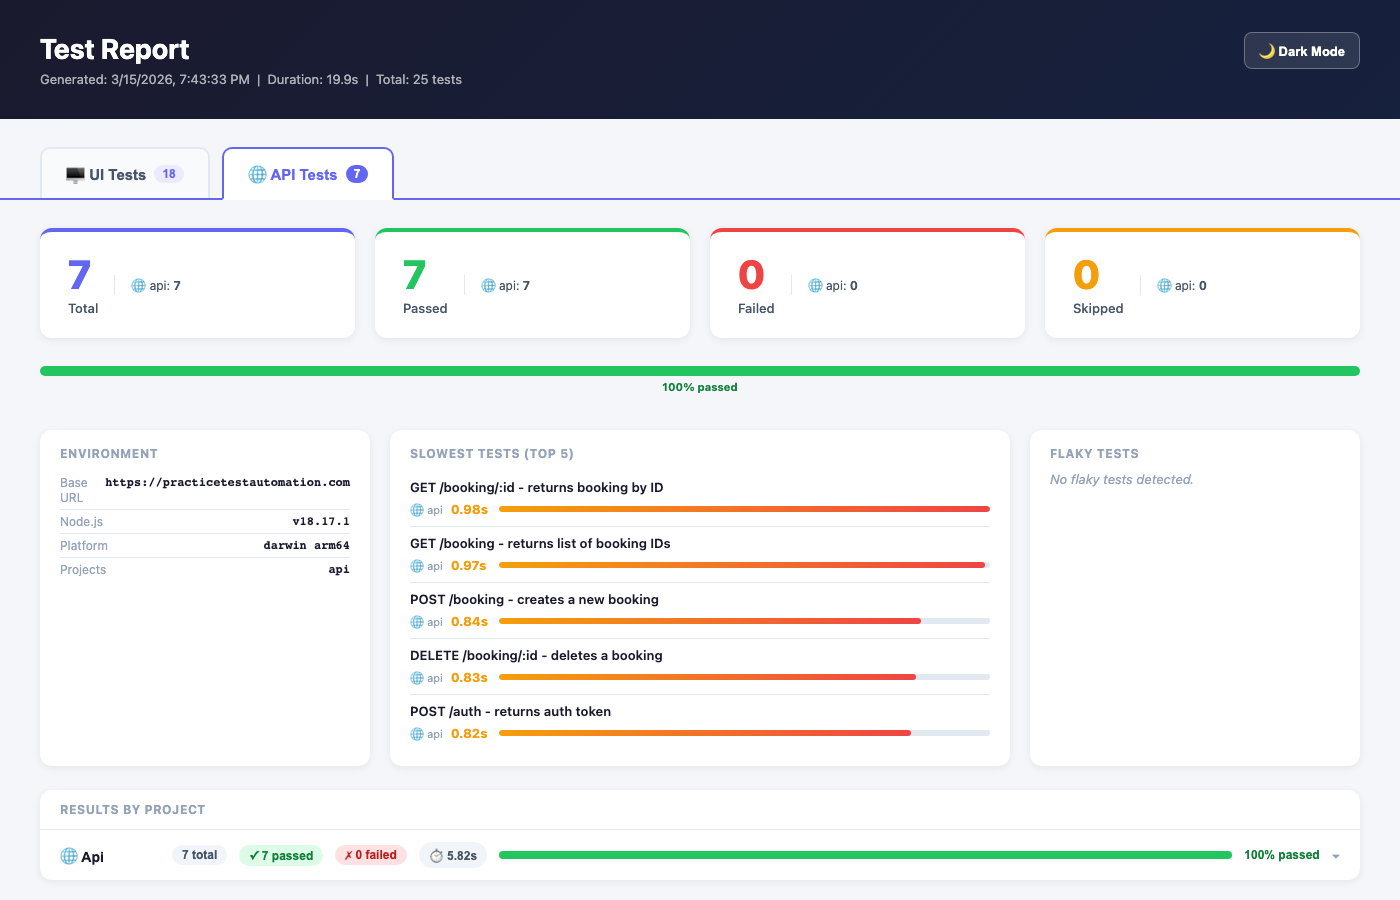
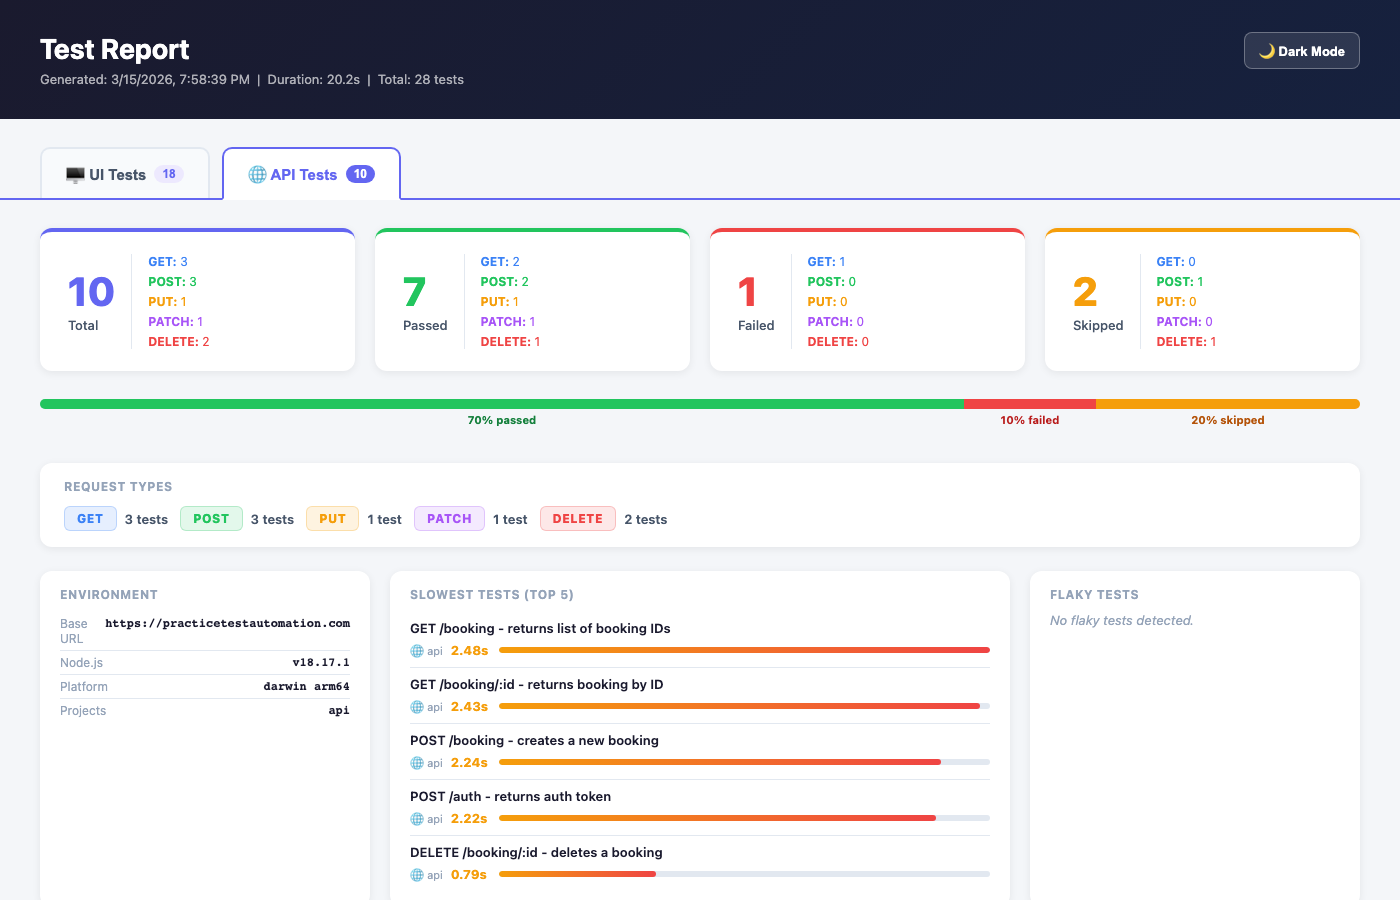
feat: add HTTP method breakdown in API report and update README
- API summary cards now show per-method counts (GET/POST/PUT/PATCH/DELETE)
- Add Request Types bar in API section
- Add intentional fail and skipped examples to API tests
- Update README with new report screenshots and feature list

diff --git a/src/reporter/customHtmlReporter.ts b/src/reporter/customHtmlReporter.ts
@@ -261,31 +261,48 @@ class CustomHtmlReporter implements Reporter {
       const sSlowest = [...sectionRecords].filter(r => r.status !== 'skipped').sort((a, b) => b.duration - a.duration).slice(0, 5);
       const sFlaky   = sectionRecords.filter(r => r.retry > 0 && r.status === 'passed');
 
+      const httpMethods = ['GET', 'POST', 'PUT', 'PATCH', 'DELETE', 'HEAD', 'OPTIONS'];
+      const methodColors: Record<string, string> = {
+        GET: '#3b82f6', POST: '#22c55e', PUT: '#f59e0b',
+        PATCH: '#a855f7', DELETE: '#ef4444', HEAD: '#64748b', OPTIONS: '#64748b',
+      };
+      const methodCounts = httpMethods.reduce((acc, m) => {
+        const count = sectionRecords.filter(r => new RegExp(`^${m}\\s`, 'i').test(r.title)).length;
+        if (count > 0) acc[m] = count;
+        return acc;
+      }, {} as Record<string, number>);
+      const hasMethodBreakdown = sectionId === 'api' && Object.keys(methodCounts).length > 0;
+
+      const cardBreakdown = (filter: (r: TestRecord) => boolean) => {
+        if (hasMethodBreakdown) {
+          return Object.entries(methodCounts).map(([m, total]) => {
+            const n = sectionRecords.filter(r => filter(r) && new RegExp(`^${m}\\s`, 'i').test(r.title)).length;
+            return `<span class="card-b-item" style="color:${methodColors[m]}"><strong>${m}:</strong> ${n}</span>`;
+          }).join('');
+        }
+        return sectionBrowsers.map(b => {
+          const n = sectionRecords.filter(r => r.browser === b && filter(r)).length;
+          return `<span class="card-b-item">${browserIcons[b] ?? '🌐'} ${escapeHtml(b)}: <strong>${n}</strong></span>`;
+        }).join('');
+      };
+
       const summaryCards = `
       <div class="summary">
         <div class="card total">
           <div class="card-left"><div class="count">${sTotal}</div><div class="label">Total</div></div>
-          <div class="card-browser-breakdown">
-            ${sectionBrowsers.map(b => { const n = sectionRecords.filter(r => r.browser === b).length; return `<span class="card-b-item">${browserIcons[b] ?? '🌐'} ${escapeHtml(b)}: <strong>${n}</strong></span>`; }).join('')}
-          </div>
+          <div class="card-browser-breakdown">${cardBreakdown(() => true)}</div>
         </div>
         <div class="card passed">
           <div class="card-left"><div class="count">${sPassed}</div><div class="label">Passed</div></div>
-          <div class="card-browser-breakdown">
-            ${sectionBrowsers.map(b => { const n = sectionRecords.filter(r => r.browser === b && r.status === 'passed').length; return `<span class="card-b-item">${browserIcons[b] ?? '🌐'} ${escapeHtml(b)}: <strong>${n}</strong></span>`; }).join('')}
-          </div>
+          <div class="card-browser-breakdown">${cardBreakdown(r => r.status === 'passed')}</div>
         </div>
         <div class="card failed">
           <div class="card-left"><div class="count">${sFailed}</div><div class="label">Failed</div></div>
-          <div class="card-browser-breakdown">
-            ${sectionBrowsers.map(b => { const n = sectionRecords.filter(r => r.browser === b && (r.status === 'failed' || r.status === 'timedOut')).length; return `<span class="card-b-item">${browserIcons[b] ?? '🌐'} ${escapeHtml(b)}: <strong>${n}</strong></span>`; }).join('')}
-          </div>
+          <div class="card-browser-breakdown">${cardBreakdown(r => r.status === 'failed' || r.status === 'timedOut')}</div>
         </div>
         <div class="card skipped">
           <div class="card-left"><div class="count">${sSkipped}</div><div class="label">Skipped</div></div>
-          <div class="card-browser-breakdown">
-            ${sectionBrowsers.map(b => { const n = sectionRecords.filter(r => r.browser === b && r.status === 'skipped').length; return `<span class="card-b-item">${browserIcons[b] ?? '🌐'} ${escapeHtml(b)}: <strong>${n}</strong></span>`; }).join('')}
-          </div>
+          <div class="card-browser-breakdown">${cardBreakdown(r => r.status === 'skipped')}</div>
         </div>
       </div>`;
 
@@ -411,10 +428,23 @@ class CustomHtmlReporter implements Reporter {
         ? `<div class="tabs">${tabButtons}</div>${panels}`
         : panels;
 
+      const methodBreakdown = hasMethodBreakdown ? `
+      <div class="method-breakdown">
+        <div class="method-breakdown-title">Request Types</div>
+        <div class="method-badges">
+          ${Object.entries(methodCounts).map(([m, count]) => `
+          <div class="method-badge">
+            <span class="method-pill" style="background:${methodColors[m]}20;color:${methodColors[m]};border-color:${methodColors[m]}40">${m}</span>
+            <span class="method-count">${count} test${count > 1 ? 's' : ''}</span>
+          </div>`).join('')}
+        </div>
+      </div>` : '';
+
       return `
 <div class="type-panel ${isActive ? 'active' : ''}" id="type-panel-${sectionId}">
   ${summaryCards}
   ${progressBar}
+  ${methodBreakdown}
   ${infoRow}
   ${browserSummary}
   ${testSection}
@@ -481,6 +511,14 @@ class CustomHtmlReporter implements Reporter {
     .prog-label-passed  { color: #15803d; }
     .prog-label-failed  { color: #b91c1c; }
     .prog-label-skipped { color: #b45309; }
+
+    /* Method breakdown */
+    .method-breakdown { margin: 0 40px 24px; background: var(--surface); border-radius: 12px; box-shadow: 0 2px 8px rgba(0,0,0,.07); padding: 16px 24px; }
+    .method-breakdown-title { font-size: 12px; font-weight: 700; text-transform: uppercase; letter-spacing: .05em; color: var(--text3); margin-bottom: 12px; }
+    .method-badges { display: flex; gap: 12px; flex-wrap: wrap; }
+    .method-badge { display: flex; align-items: center; gap: 8px; }
+    .method-pill { font-size: 12px; font-weight: 800; padding: 4px 12px; border-radius: 6px; border: 1px solid; letter-spacing: .05em; }
+    .method-count { font-size: 13px; font-weight: 600; color: var(--text2); }
 
     /* Info panels row */
     .info-row { display: flex; gap: 20px; margin: 0 40px 24px; flex-wrap: wrap; }

diff --git a/tests/api/booking.spec.ts b/tests/api/booking.spec.ts
@@ -79,4 +79,21 @@ test.describe('Restful Booker API', () => {
     const status = await client.getBookingStatus(bookingid);
     expect(status).toBe(404);
   });
+
+  test('GET /booking/:id - wrong id returns 404 - intentional fail', async () => {
+    const booking = await client.getBooking(999999999);
+    expect(booking.firstname).toBe('Wrong Name');
+  });
+
+  test.skip('POST /booking - skipped: depositpaid false not yet supported', async () => {
+    const payload = createBookingPayload({ depositpaid: false });
+    const { booking } = await client.createBooking(payload);
+    expect(booking.depositpaid).toBe(false);
+  });
+
+  test.skip('DELETE /booking/:id - skipped: bulk delete not implemented', async () => {
+    const token = await client.getToken();
+    await client.deleteBooking(1, token);
+    await client.deleteBooking(2, token);
+  });
 });

diff --git a/README.md b/README.md
@@ -114,7 +114,8 @@ Each test run generates a self-contained HTML report in `custom-report/` with a 
 ### Report Features
 
 - Separate UI and API tabs with independent stats
-- Summary cards with per-browser/project pass/fail/skip counts
+- **API summary cards broken down by HTTP method** (GET, POST, PUT, PATCH, DELETE)
+- **Request Types bar** showing method counts (e.g. GET: 3, POST: 3, PUT: 1...)
 - Progress bar with percentage labels
 - Environment info (base URL, Node.js version, platform, projects)
 - Slowest tests (top 5) with relative time bars
